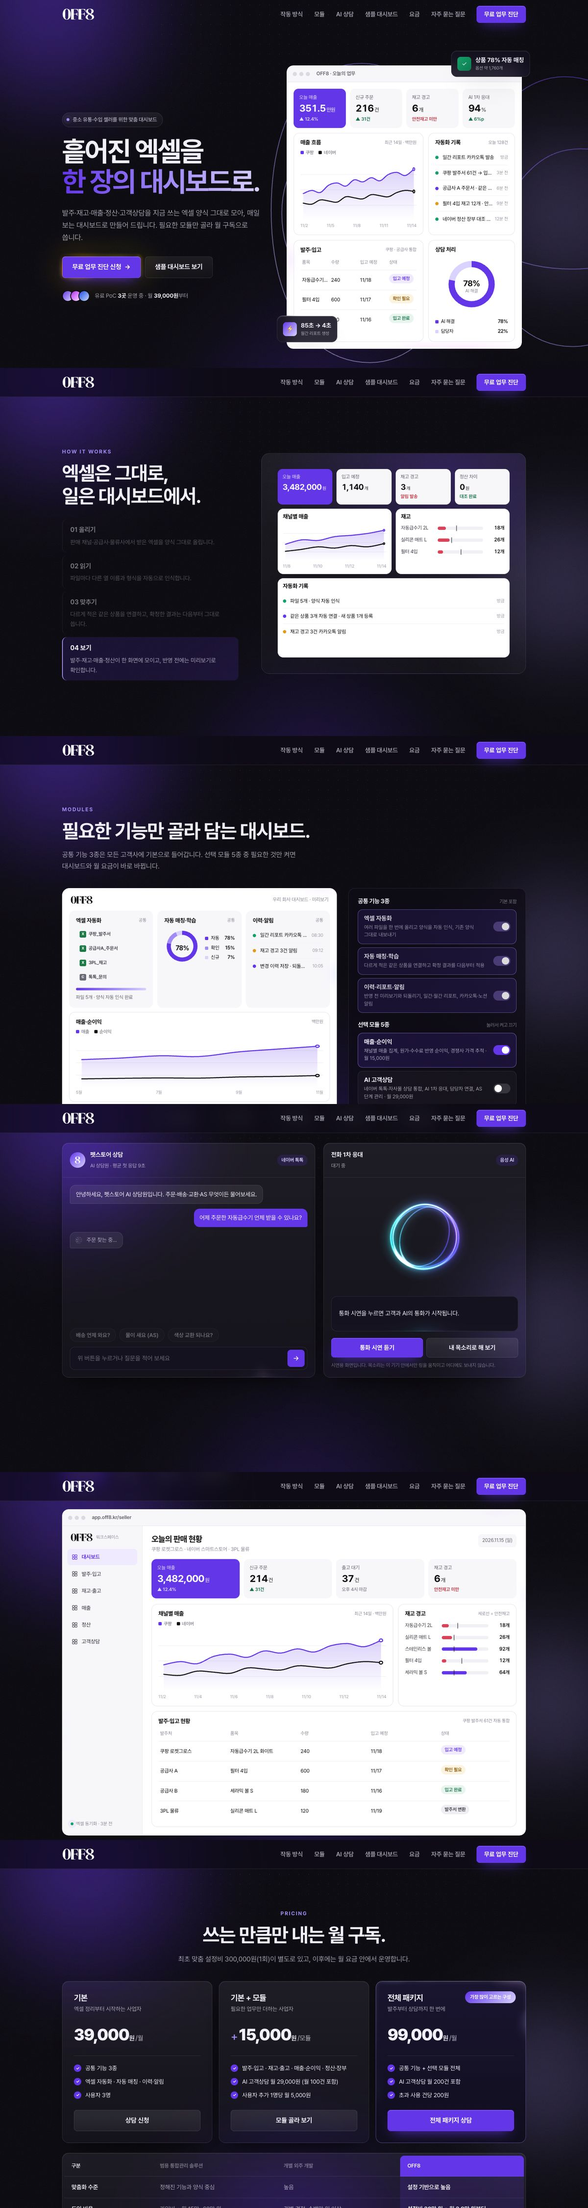
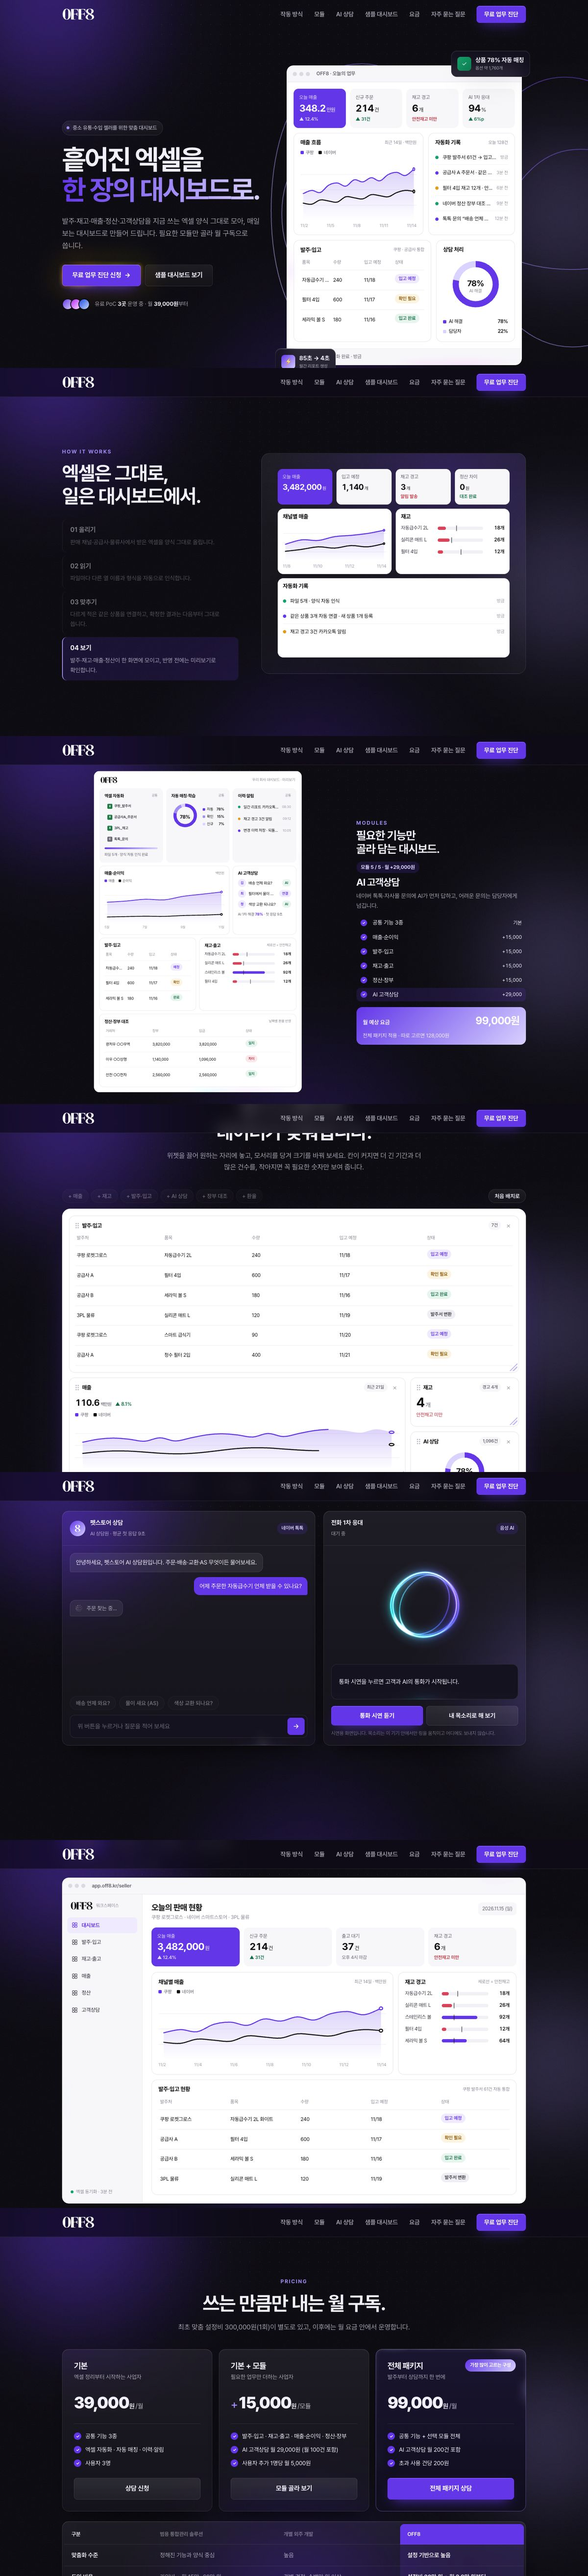
OFF8 미리보기 화면 갱신

diff --git a/index.html b/index.html
@@ -242,7 +242,7 @@
           </div>
           <a class="browser sc-browser" href="https://flawlessjimmy.github.io/off8/" target="_blank" rel="noopener" data-cursor="Open">
             <div class="browser-bar"><i></i><i></i><i></i><span class="url">flawlessjimmy.github.io/off8</span></div>
-            <div class="viewport"><img class="shot" src="shots/off8.jpg?v=1" alt="OFF8 사이트 화면" /></div>
+            <div class="viewport"><img class="shot" src="shots/off8.jpg?v=2" alt="OFF8 사이트 화면" /></div>
           </a>
         </article>
       </div>
